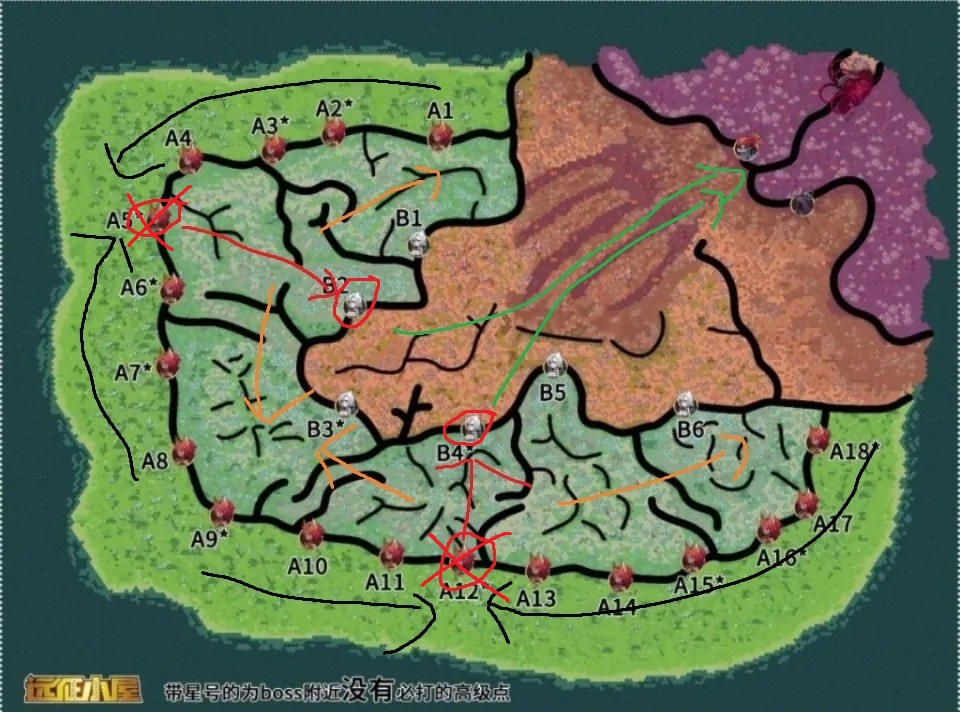
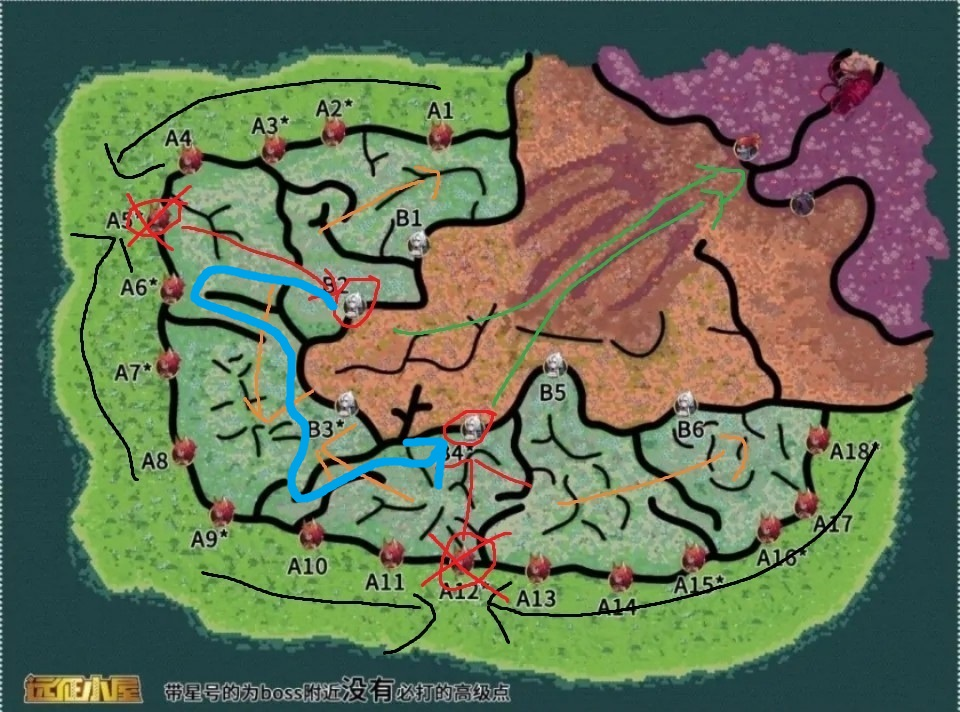
update info

Changed region(s): [[0.2812, 0.5871, 0.4688, 0.7107], [0.1875, 0.3708, 0.375, 0.4635], [0.2812, 0.4635, 0.3125, 0.5871]]

diff --git a/src/assets/data/Member.js b/src/assets/data/Member.js
@@ -1,70 +1,70 @@
 export const MemberList = {
-  "9ucci": { 신분: "자작", 유물5: 0, 천왕퀘: 7 },
-  ashara: { 신분: "남작", 유물5: 0, 천왕퀘: 7 },
-  Bebe: { 신분: "자작", 유물5: 0, 천왕퀘: 7 },
-  Becca: { 신분: "기사", 유물5: 0, 천왕퀘: 7 },
-  Beginner: { 신분: "자작", 유물5: 0, 천왕퀘: 7 },
-  "chung ki An": { 신분: "자작", 유물5: 0, 천왕퀘: 7 },
-  cool: { 신분: "자작", 유물5: 0, 천왕퀘: 7 },
-  Crescent: { 신분: "견습기사", 유물5: 0, 천왕퀘: 7 },
-  dash: { 신분: "자작", 유물5: 0, 천왕퀘: 7 },
-  Epicure: { 신분: "기사", 유물5: 0, 천왕퀘: 7 },
+  "9ucci": { 신분: "백작", 유물5: 0, 천왕퀘: 7 },
+  ashara: { 신분: "자작", 유물5: 0, 천왕퀘: 7 },
+  Bebe: { 신분: "백작", 유물5: 0, 천왕퀘: 7 },
+  Becca: { 신분: "남작", 유물5: 0, 천왕퀘: 7 },
+  Beginner: { 신분: "백작", 유물5: 0, 천왕퀘: 7 },
+  "chung ki An": { 신분: "백작", 유물5: 0, 천왕퀘: 7 },
+  cool: { 신분: "백작", 유물5: 0, 천왕퀘: 7 },
+  Crescent: { 신분: "백작", 유물5: 0, 천왕퀘: 7 },
+  dash: { 신분: "백작", 유물5: 0, 천왕퀘: 7 },
+  Epicure: { 신분: "백작", 유물5: 0, 천왕퀘: 7 },
   Greatspirit: { 신분: "자작", 유물5: 0, 천왕퀘: 7 },
-  helkaness: { 신분: "남작", 유물5: 0, 천왕퀘: 7 },
-  hoyo: { 신분: "자작", 유물5: 0, 천왕퀘: 7 },
-  iiwii: { 신분: "자작", 유물5: 0, 천왕퀘: 7 },
-  Jin: { 신분: "자작", 유물5: 0, 천왕퀘: 7 },
-  lenia: { 신분: "자작", 유물5: 0, 천왕퀘: 7 },
-  Leviathan: { 신분: "자작", 유물5: 0, 천왕퀘: 7 },
-  "M&M": { 신분: "자작", 유물5: 0, 천왕퀘: 7 },
-  MaesTro: { 신분: "자작", 유물5: 0, 천왕퀘: 7 },
-  OneStar: { 신분: "자작", 유물5: 0, 천왕퀘: 7 },
-  PerthArena: { 신분: "기사", 유물5: 0, 천왕퀘: 7 },
-  Ppowerade: { 신분: "자작", 유물5: 0, 천왕퀘: 7 },
-  raykimz: { 신분: "기사", 유물5: 0, 천왕퀘: 7 },
-  Ruri: { 신분: "남작", 유물5: 0, 천왕퀘: 7 },
-  SnowNooDLe: { 신분: "자작", 유물5: 0, 천왕퀘: 7 },
-  surprise4444: { 신분: "자작", 유물5: 0, 천왕퀘: 7 },
-  Talane: { 신분: "자작", 유물5: 0, 천왕퀘: 7 },
-  Texasminq: { 신분: "남작", 유물5: 0, 천왕퀘: 7 },
-  yoon: { 신분: "기사", 유물5: 0, 천왕퀘: 7 },
-  각성: { 신분: "자작", 유물5: 0, 천왕퀘: 7 },
+  helkaness: { 신분: "백작", 유물5: 0, 천왕퀘: 7 },
+  hoyo: { 신분: "백작", 유물5: 0, 천왕퀘: 7 },
+  iiwii: { 신분: "백작", 유물5: 0, 천왕퀘: 7 },
+  Jin: { 신분: "백작", 유물5: 0, 천왕퀘: 7 },
+  lenia: { 신분: "백작", 유물5: 0, 천왕퀘: 7 },
+  Leviathan: { 신분: "백작", 유물5: 0, 천왕퀘: 7 },
+  "M&M": { 신분: "백작", 유물5: 0, 천왕퀘: 7 },
+  MaesTro: { 신분: "백작", 유물5: 0, 천왕퀘: 7 },
+  OneStar: { 신분: "백작", 유물5: 0, 천왕퀘: 7 },
+  PerthArena: { 신분: "자작", 유물5: 0, 천왕퀘: 7 },
+  Ppowerade: { 신분: "백작", 유물5: 0, 천왕퀘: 7 },
+  raykimz: { 신분: "자작", 유물5: 0, 천왕퀘: 7 },
+  Ruri: { 신분: "백작", 유물5: 0, 천왕퀘: 7 },
+  SnowNooDLe: { 신분: "백작", 유물5: 0, 천왕퀘: 7 },
+  surprise4444: { 신분: "백작", 유물5: 0, 천왕퀘: 7 },
+  Talane: { 신분: "백작", 유물5: 0, 천왕퀘: 7 },
+  Texasminq: { 신분: "백작", 유물5: 0, 천왕퀘: 7 },
+  yoon: { 신분: "백작", 유물5: 0, 천왕퀘: 7 },
+  각성: { 신분: "백작", 유물5: 0, 천왕퀘: 7 },
   금연상담센터: { 신분: "견습기사", 유물5: 0, 천왕퀘: 7 },
-  김유정보고시작함: { 신분: "기사", 유물5: 0, 천왕퀘: 7 },
+  김유정보고시작함: { 신분: "자작", 유물5: 0, 천왕퀘: 7 },
   까만소: { 신분: "자작", 유물5: 0, 천왕퀘: 7 },
-  꿀꺽: { 신분: "자작", 유물5: 0, 천왕퀘: 7 },
-  뀨우: { 신분: "남작", 유물5: 0, 천왕퀘: 7 },
-  나비보벳따우웅: { 신분: "자작", 유물5: 0, 천왕퀘: 7 },
-  댜미: { 신분: "남작", 유물5: 0, 천왕퀘: 7 },
-  로열: { 신분: "자작", 유물5: 0, 천왕퀘: 7 },
-  마녀: { 신분: "남작", 유물5: 0, 천왕퀘: 7 },
-  마론: { 신분: "자작", 유물5: 0, 천왕퀘: 7 },
-  "메달(이모티콘)": { 신분: "자작", 유물5: 0, 천왕퀘: 7 },
+  꿀꺽: { 신분: "백작", 유물5: 0, 천왕퀘: 7 },
+  뀨우: { 신분: "자작", 유물5: 0, 천왕퀘: 7 },
+  나비보벳따우웅: { 신분: "백작", 유물5: 0, 천왕퀘: 7 },
+  댜미: { 신분: "백작", 유물5: 0, 천왕퀘: 7 },
+  로열: { 신분: "백작", 유물5: 0, 천왕퀘: 7 },
+  마녀: { 신분: "백작", 유물5: 0, 천왕퀘: 7 },
+  마론: { 신분: "백작", 유물5: 0, 천왕퀘: 7 },
+  "메달(이모티콘)": { 신분: "백작", 유물5: 0, 천왕퀘: 7 },
   몽블랑: { 신분: "자작", 유물5: 0, 천왕퀘: 7 },
-  미녀친구들: { 신분: "자작", 유물5: 0, 천왕퀘: 7 },
-  민로몬: { 신분: "남작", 유물5: 0, 천왕퀘: 7 },
+  미녀친구들: { 신분: "백작", 유물5: 0, 천왕퀘: 7 },
+  민로몬: { 신분: "자작", 유물5: 0, 천왕퀘: 7 },
   바나나전문가: { 신분: "견습기사", 유물5: 0, 천왕퀘: 7 },
-  비둘기밥: { 신분: "기사", 유물5: 0, 천왕퀘: 7 },
-  빈숭: { 신분: "자작", 유물5: 0, 천왕퀘: 7 },
-  삐대: { 신분: "남작", 유물5: 0, 천왕퀘: 7 },
-  설탕공장장: { 신분: "기사", 유물5: 0, 천왕퀘: 7 },
-  소나기: { 신분: "자작", 유물5: 0, 천왕퀘: 7 },
-  소다: { 신분: "남작", 유물5: 0, 천왕퀘: 7 },
-  손댕이: { 신분: "남작", 유물5: 0, 천왕퀘: 7 },
-  솔느님: { 신분: "자작", 유물5: 0, 천왕퀘: 7 },
-  아빠: { 신분: "남작", 유물5: 0, 천왕퀘: 7 },
-  "야.꿀벌": { 신분: "기사", 유물5: 0, 천왕퀘: 7 },
-  엡츄: { 신분: "남작", 유물5: 0, 천왕퀘: 7 },
-  오성: { 신분: "기사", 유물5: 0, 천왕퀘: 7 },
-  이견: { 신분: "자작", 유물5: 0, 천왕퀘: 7 },
-  인천: { 신분: "남작", 유물5: 0, 천왕퀘: 7 },
-  인포헌터: { 신분: "자작", 유물5: 0, 천왕퀘: 7 },
-  추이: { 신분: "기사", 유물5: 0, 천왕퀘: 7 },
-  카바푸박사: { 신분: "자작", 유물5: 0, 천왕퀘: 7 },
-  쿠크: { 신분: "자작", 유물5: 0, 천왕퀘: 7 },
-  파안: { 신분: "자작", 유물5: 0, 천왕퀘: 7 },
-  포도동: { 신분: "남작", 유물5: 0, 천왕퀘: 7 },
-  하드케이크: { 신분: "자작", 유물5: 0, 천왕퀘: 7 },
-  하이: { 신분: "남작", 유물5: 0, 천왕퀘: 7 },
-  흑비버: { 신분: "남작", 유물5: 0, 천왕퀘: 7 },
+  비둘기밥: { 신분: "자작", 유물5: 0, 천왕퀘: 7 },
+  빈숭: { 신분: "백작", 유물5: 0, 천왕퀘: 7 },
+  삐대: { 신분: "백작", 유물5: 0, 천왕퀘: 7 },
+  설탕공장장: { 신분: "자작", 유물5: 0, 천왕퀘: 7 },
+  소나기: { 신분: "백작", 유물5: 0, 천왕퀘: 7 },
+  소다: { 신분: "백작", 유물5: 0, 천왕퀘: 7 },
+  손댕이: { 신분: "백작", 유물5: 0, 천왕퀘: 7 },
+  솔느님: { 신분: "백작", 유물5: 0, 천왕퀘: 7 },
+  아빠: { 신분: "백작", 유물5: 0, 천왕퀘: 7 },
+  "야.꿀벌": { 신분: "자작", 유물5: 0, 천왕퀘: 7 },
+  엡츄: { 신분: "자작", 유물5: 0, 천왕퀘: 7 },
+  오성: { 신분: "백작", 유물5: 0, 천왕퀘: 7 },
+  이견: { 신분: "백작", 유물5: 0, 천왕퀘: 7 },
+  인천: { 신분: "백작", 유물5: 0, 천왕퀘: 7 },
+  인포헌터: { 신분: "백작", 유물5: 0, 천왕퀘: 7 },
+  추이: { 신분: "자작", 유물5: 0, 천왕퀘: 7 },
+  카바푸박사: { 신분: "백작", 유물5: 0, 천왕퀘: 7 },
+  쿠크: { 신분: "백작", 유물5: 0, 천왕퀘: 7 },
+  파안: { 신분: "백작", 유물5: 0, 천왕퀘: 7 },
+  포도동: { 신분: "자작", 유물5: 0, 천왕퀘: 7 },
+  하드케이크: { 신분: "백작", 유물5: 0, 천왕퀘: 7 },
+  하이: { 신분: "백작", 유물5: 0, 천왕퀘: 7 },
+  흑비버: { 신분: "자작", 유물5: 0, 천왕퀘: 7 },
 };

diff --git a/src/views/Abyssal.js b/src/views/Abyssal.js
@@ -5,6 +5,7 @@ import startChar2 from "assets/images/guide_2.jpg";
 import casualsGuide from "assets/images/abyssal_guide.png";
 import tile from "assets/images/tile.jpg";
 import map from "assets/images/guide_3.jpg";
+import example from "assets/images/example.jpg";
 
 import "assets/style/Abyssal.css";
 
@@ -166,17 +167,35 @@ const Abyssal = () => {
         <div className="map" ref={route}>
           <h2>현재 플랜입니다.</h2>
           <h3 className="black-line">
-            검정라인 - 시작후 본인 위치에 따라, A5 또는 A12 로 모여주시기
-            바랍니다.
+            <strike>
+              검정라인 - 시작후 본인 위치에 따라, A5 또는 A12 로 모여주시기
+              바랍니다.
+            </strike>
           </h3>
           <h3 className="red-line">
-            빨간라인 - 외각 보스 처치 후 A5 이셨던 분들은 B2, A12 이셨던 분들은
-            B4 로 모여주시기 바랍니다.
+            <strike>
+              빨간라인 - 외각 보스 처치 후 A5 이셨던 분들은 B2, A12 이셨던
+              분들은 B4 로 모여주시기 바랍니다.
+            </strike>
           </h3>
           <h3 className="orange-line">
-            주황라인 - 외각 보스 처치 후 주황 라인을 따라 파밍 하세요 (공터 3개
-            이상 룰 꼭 지켜 주시구요.)
+            <strike>
+              주황라인 - 외각 보스 처치 후 주황 라인을 따라 파밍 하세요 (공터
+              3개 이상 룰 꼭 지켜 주시구요.)
+            </strike>
           </h3>
+          <h3 className="light-sky-line">
+            파랑라인 - 현재 위쪽 보스 다음이 레벨 7 도시라서, 밑에서 왼쪽으로
+            파밍한곳으로 해서 연결하려 합니다. B4 부터는 파밍문제 떄문에라도
+            조금나가서 두갈래로 나눠지든 하겠습니다. 현재 밑에 계신분들은 먼저
+            올라가시기 바랍니다.
+          </h3>
+          <h5 className="red-line">
+            빨강색으로 칠해진곳은 잠시 유지해주시고, 파밍을 위해 땅을 포기하셔야
+            한다면 이제는 필요없을 노랑으로 표시된, 제일 외각쪽 땅을
+            포기하시면서 올라가주시기 바랍니다. 이제는 외각땅은 필요 없으십니다.
+            <img src={example} />
+          </h5>
           <h3 className="green-line">
             초록라인 - 마지막 보스 전은 둘중 하나만 치겠습니다
           </h3>

diff --git a/src/assets/style/Abyssal.css b/src/assets/style/Abyssal.css
@@ -9,11 +9,16 @@ h3.black-line {
   color: black;
 }
 
+h5.red-line,
 h3.red-line {
   font-weight: bolder;
   color: red;
 }
 
+h3.light-sky-line {
+  font-weight: bolder;
+  color: #87CEFA;
+}
 h3.orange-line {
   font-weight: bolder;
   color: orange;
